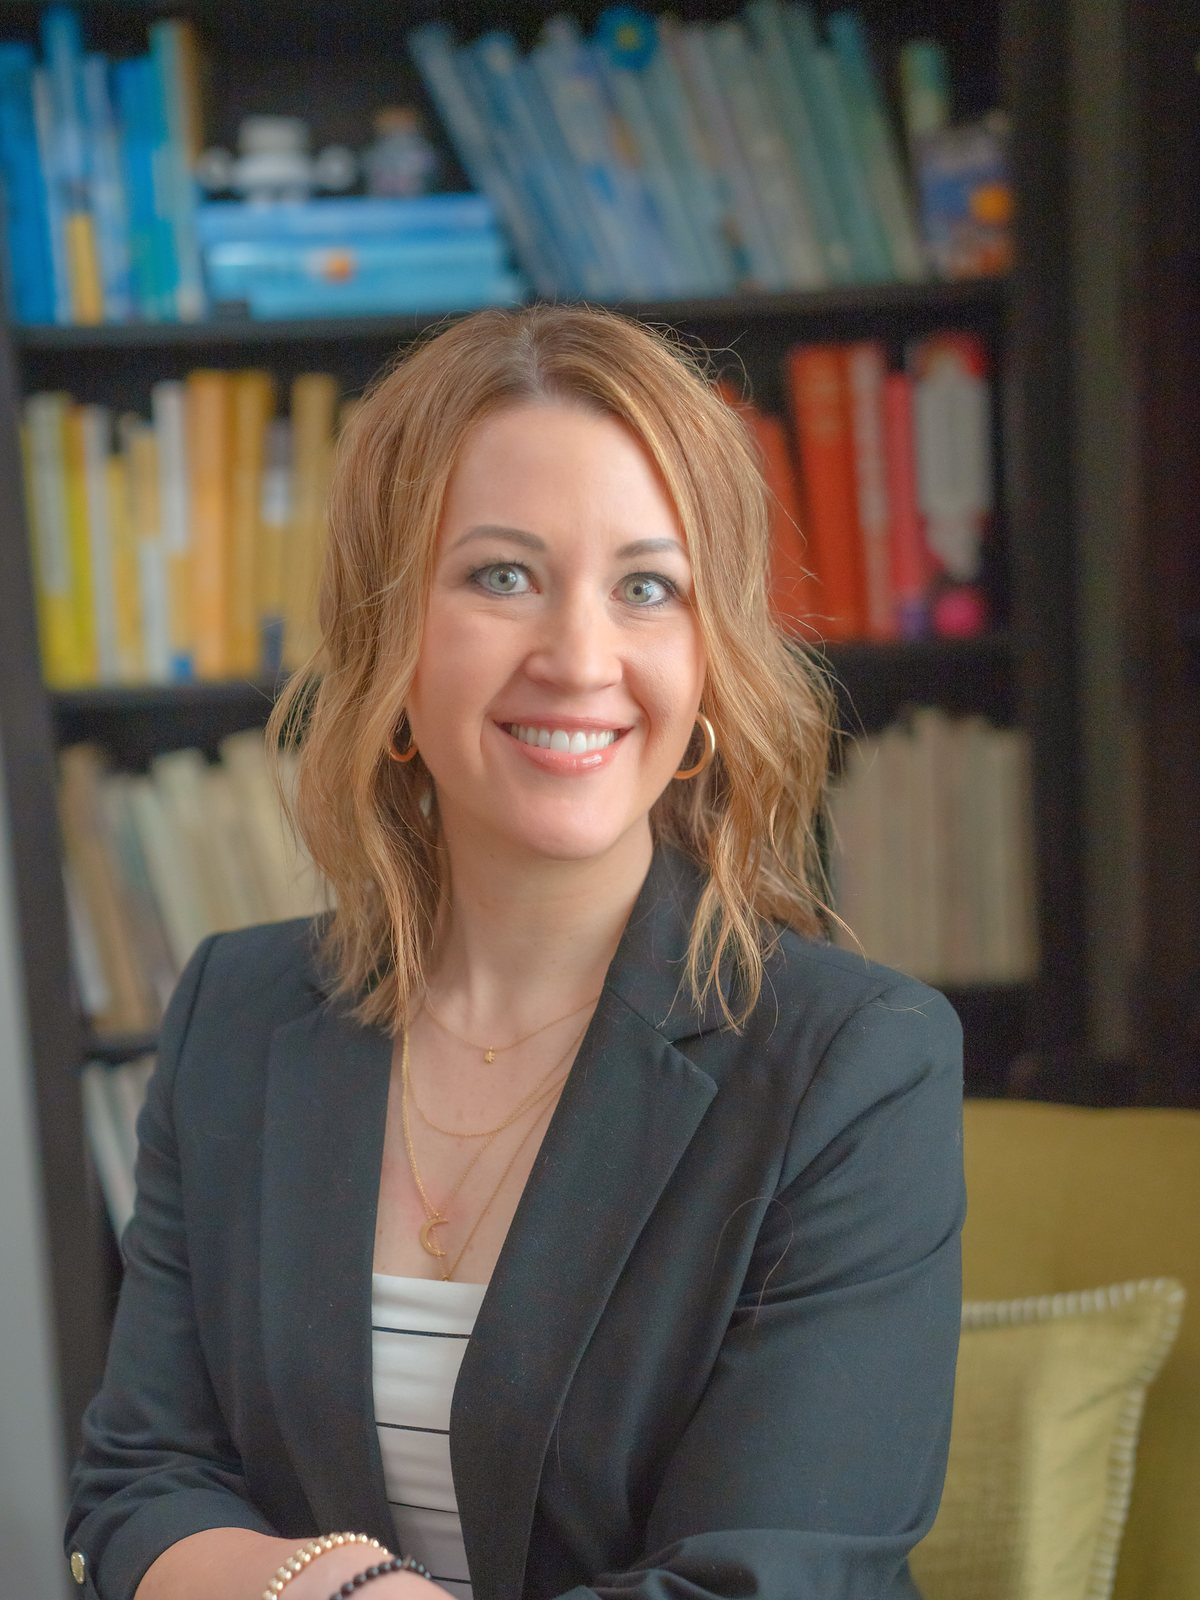
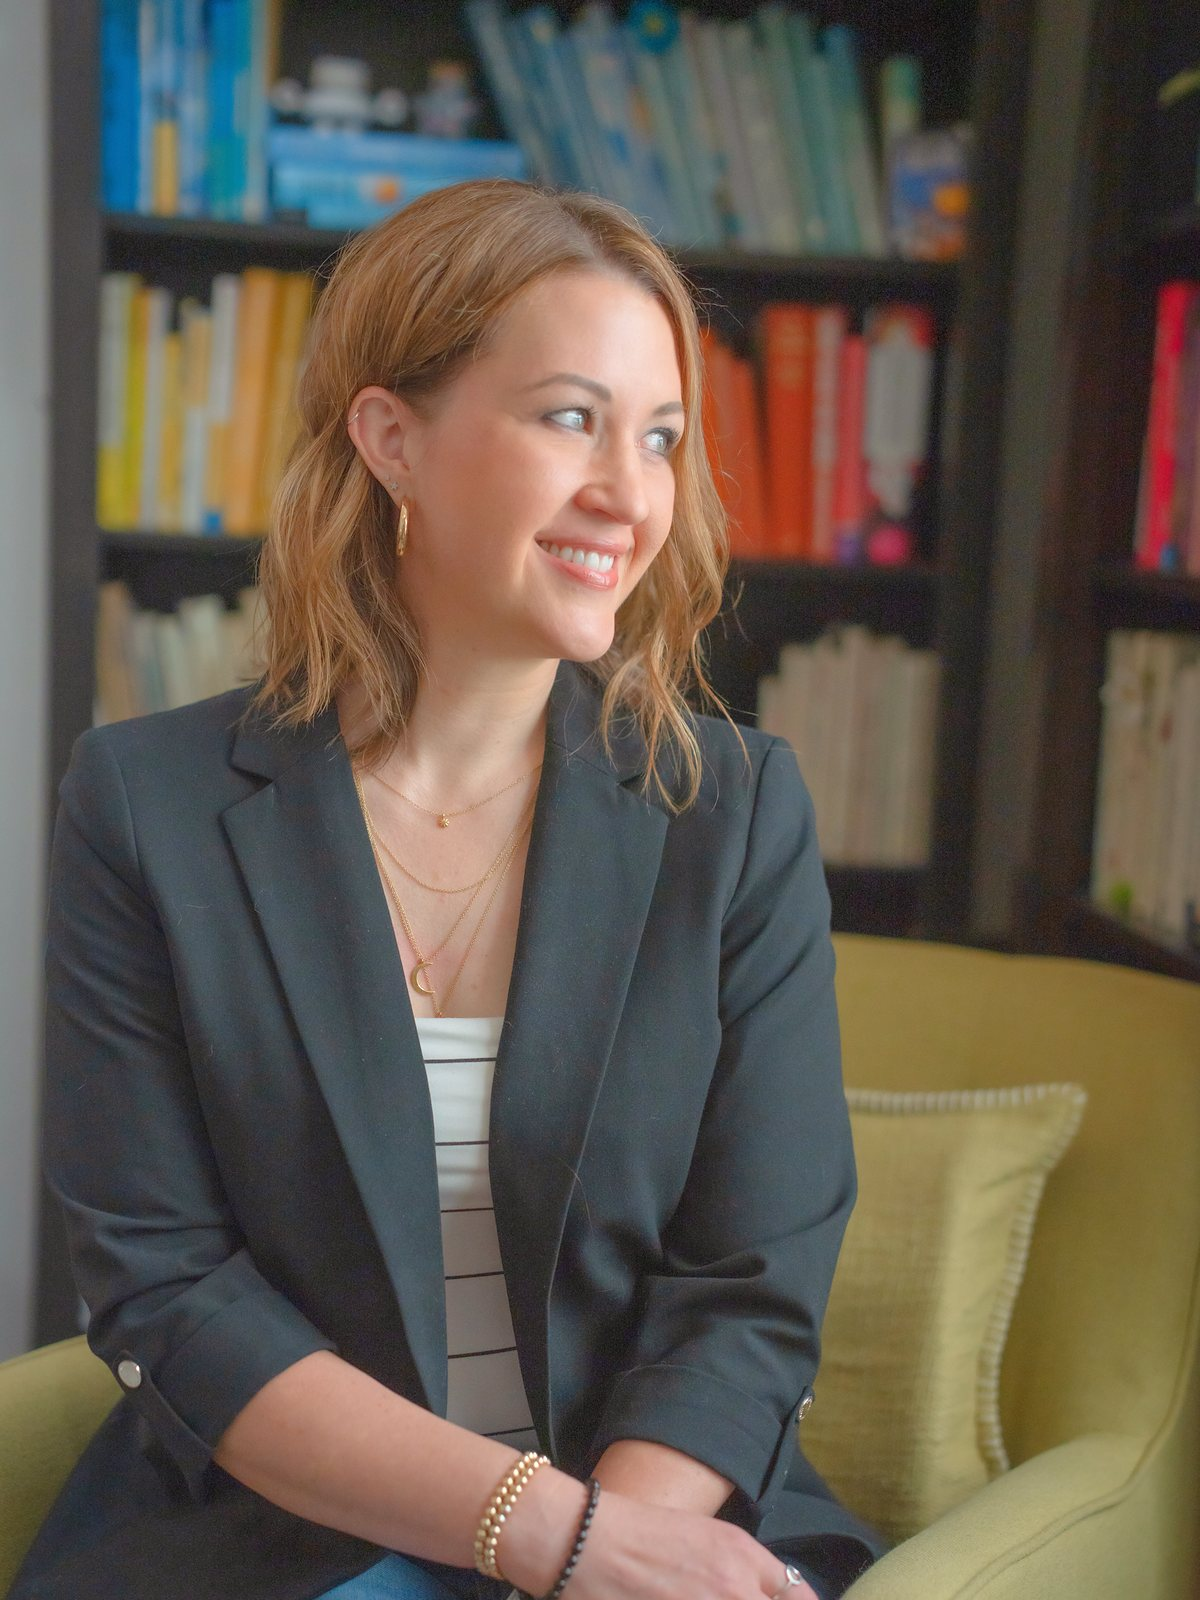
Photo cleanup: About yellow-dress photo, Clinicians SAV04509, strip recrop
- About: yellow-dress headshot back as the main sidebar photo
- Clinicians: SAV04509 (looking off-camera), graded to match the set
- Home strip: denim panel recropped wider (DSC08050) for headroom
- About: remove four-photo b-roll strip, now redundant with Home strip
- Checked Home strip and Getting Started photo pair at 390px width

diff --git a/about.html b/about.html
@@ -41,7 +41,7 @@ page_class: about-page
 
   <!-- SIDEBAR -->
   <div class="sidebar">
-    <img src="images/aly-denim.jpg" alt="Aly Webster in a denim shirt, seated in a yellow armchair in her office" class="sidebar-photo" width="1200" height="1600" />
+    <img src="images/aly-headshot-yellow.jpg" alt="Aly Webster, LCPC, smiling outdoors in a yellow dress" class="sidebar-photo" width="1153" height="1730" />
 
     <div class="sidebar-block">
       <p class="sidebar-block-label">Credentials</p>
@@ -142,11 +142,4 @@ page_class: about-page
         </a>
       </div>
     </div>
-  </section>
-  <!-- B-ROLL STRIP -->
-  <section class="b-roll">
-    <img src="images/detail-terrarium.jpg" alt="Terrarium on a side table in Aly's office" width="800" height="1200" loading="lazy" />
-    <img src="images/detail-clock-books.jpg" alt="Books and a clock on Aly's bookshelf" width="1200" height="800" loading="lazy" />
-    <img src="images/detail-globe.jpg" alt="Globe and plant on a stack of atlases" width="1200" height="800" loading="lazy" />
-    <img src="images/detail-blue-books.jpg" alt="Counseling books on Aly's shelf" width="1200" height="800" loading="lazy" />
   </section>

diff --git a/index.html b/index.html
@@ -106,7 +106,7 @@ page_class: home-page
 
   <!-- DETAIL STRIP -->
   <section class="detail-strip">
-    <img src="images/strip-aly.jpg" alt="Aly standing in front of her bookshelves" width="600" height="750" loading="lazy" />
+    <img src="images/strip-aly.jpg" alt="Aly in a denim shirt, standing in front of her bookshelves" width="600" height="750" loading="lazy" />
     <img src="images/strip-blue-books.jpg" alt="Blue books, a small white robot, and a jar of paper stars" width="600" height="750" loading="lazy" />
     <img src="images/strip-terrarium.jpg" alt="Moss terrarium in a glass jar" width="600" height="750" loading="lazy" />
     <img src="images/strip-plants.jpg" alt="Plants on the office windowsill" width="600" height="750" loading="lazy" />

diff --git a/clinicians.html b/clinicians.html
@@ -44,7 +44,7 @@ page_class: clinicians-page
 
     <!-- SIDEBAR -->
     <div class="sidebar">
-      <img src="images/aly-clinicians.jpg" alt="Aly Webster in a black blazer, seated in a yellow armchair in front of her bookshelves" class="sidebar-photo" width="1200" height="1600" />
+      <img src="images/aly-clinicians.jpg" alt="Aly Webster in a black blazer, seated in a yellow armchair and smiling off to the side" class="sidebar-photo" width="1200" height="1600" />
       <div class="sidebar-block">
         <p class="sidebar-block-label">Credentials</p>
         <div class="sidebar-cred-list list-rows">

diff --git a/_sass/_base.scss b/_sass/_base.scss
@@ -215,12 +215,6 @@ nav {
 /* wide photo between sections, kept inside the content width */
 .photo-band { padding: 5rem var(--gutter); }
 .photo-band img { width: 100%; height: clamp(240px, 34vw, 480px); object-fit: cover; }
-/* square detail strip */
-.b-roll {
-  padding: 2rem var(--gutter) 5rem;
-  display: grid; grid-template-columns: repeat(4, 1fr); gap: 1rem;
-}
-.b-roll img { width: 100%; aspect-ratio: 1 / 1; object-fit: cover; }
 /* six small equal panels, texture rather than featured photos */
 .detail-strip {
   padding: 1rem var(--gutter) 5rem;

diff --git a/_sass/_style-mobile.scss b/_sass/_style-mobile.scss
@@ -55,7 +55,6 @@
 
   /* ── PHOTOS ── */
   .book-grid { grid-template-columns: repeat(2, 1fr); }
-  .b-roll { grid-template-columns: repeat(2, 1fr); padding-bottom: 4rem; }
   .detail-strip { grid-template-columns: repeat(3, 1fr); padding-bottom: 4rem; }
   .contact-photo-pair { grid-template-columns: 1fr; }
   .contact-photo-pair img { height: auto; aspect-ratio: 4 / 3; }

diff --git a/_sass/_style-about.scss b/_sass/_style-about.scss
@@ -8,7 +8,7 @@
 .credential-item strong { color: var(--dark); }
 
 /* books */
-.books { padding: 5rem var(--gutter) 3rem; }
+.books { padding: 5rem var(--gutter); }
 .book-grid {
   display: grid; grid-template-columns: repeat(4, 1fr);
   gap: 2rem 1.5rem; margin-top: 2.5rem;
